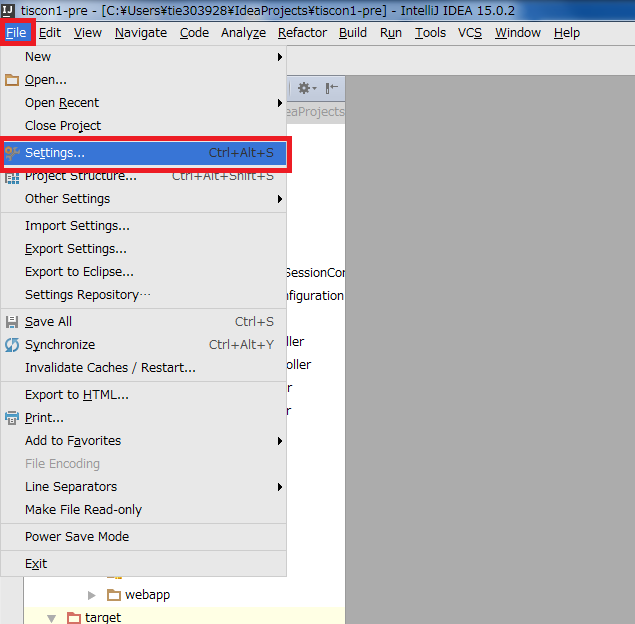
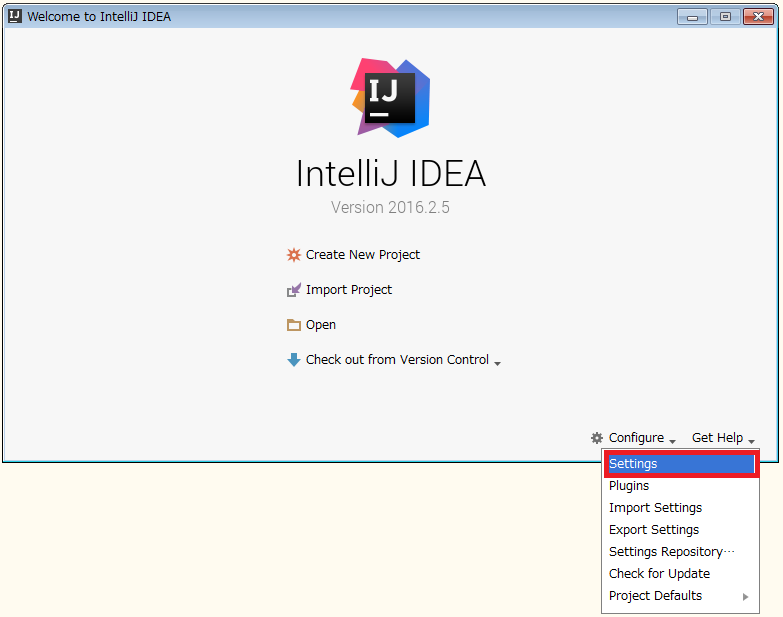
プロキシガイドの最新化

diff --git a/ProxyGuide.md b/ProxyGuide.md
@@ -16,7 +16,7 @@
 ![自身のプロキシ設定確認3](image/proxy_setteing3.png)  
 ---
 ###IntelliJでのプロキシ設定  
-1. IntelliJの上部メニューバーより、File > Settings を選択します。  
+1. IntelliJのWelcome画面(またはメニューバー>File)からSettingを選択します。  
 ![IntelliJのプロキシ設定1](image/proxy_setteing_IntelliJ1.png)  
   
 1. Settingsウィンドウが表示されるので、左のバーからAppearance & Behavior > 一般 > HTTP Proxyを選択します。  
@@ -50,26 +50,3 @@
 
 1. コマンドに`set`を入力し、先程入力した設定が反映されていることを確認してください。  
 ![Herokuのプロキシ設定7](image/proxy_setteing_Heroku7.png)  
-
----
-###Webアプリケーション動作のための設定  
-  
-1. IntelliJを起動し、Project Viewより tiscon1 > respository > impl内のCachedGenreRepositoryをひらきます。
-1. findFromApiメソッドを以下の様に編集します。
- 
- 編集前
- 
-         // プロキシ設定が不要の場合
-         RestTemplate rest = new RestTemplate();
-         // プロキシ設定が必要の場合
-         // RestTemplate rest = myRest("proxy.co.jp", 8080);
- 
- 編集後
- 
-         // プロキシ設定が不要の場合
-         // RestTemplate rest = new RestTemplate();
-         // プロキシ設定が必要の場合
-         RestTemplate rest = myRest("proxy.co.jp", 8080);　// 自身のプロキシアドレス、ポート番号を記載する
- 
-   同様に、Project Viewより tiscon1 > respository > impl内のCategoryRepositoryImpl内を編集します。  
- CategoryRepositoryImpl内は上記記載が2か所存在します。両方同様の編集を行って下さい。  
